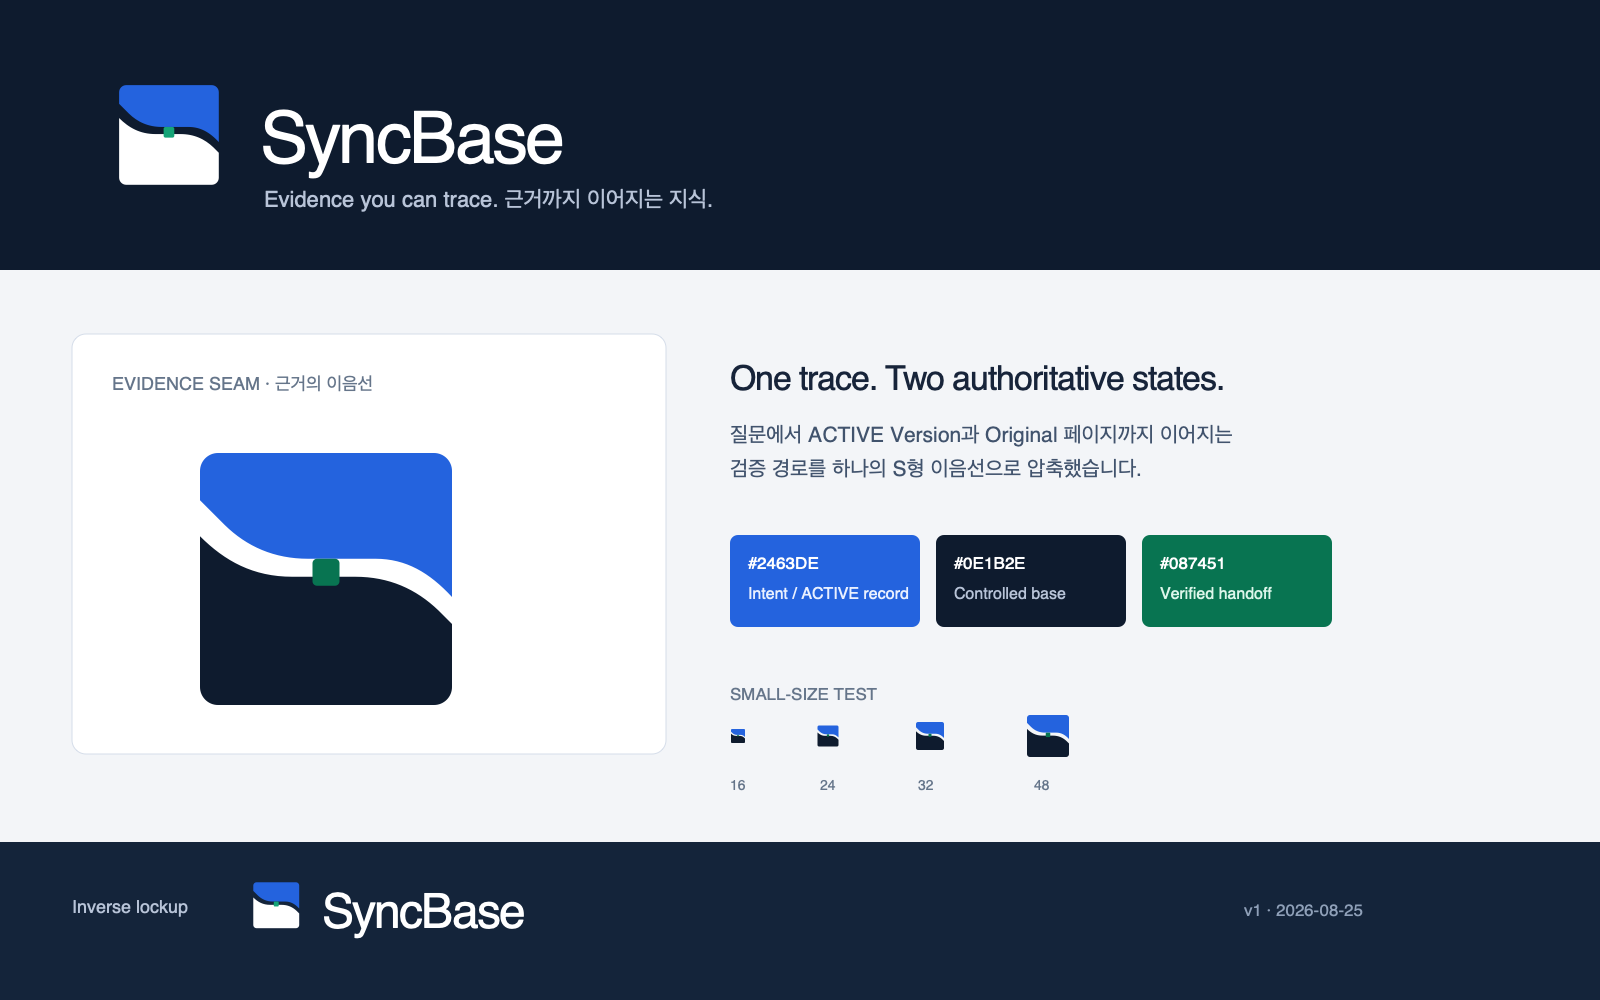
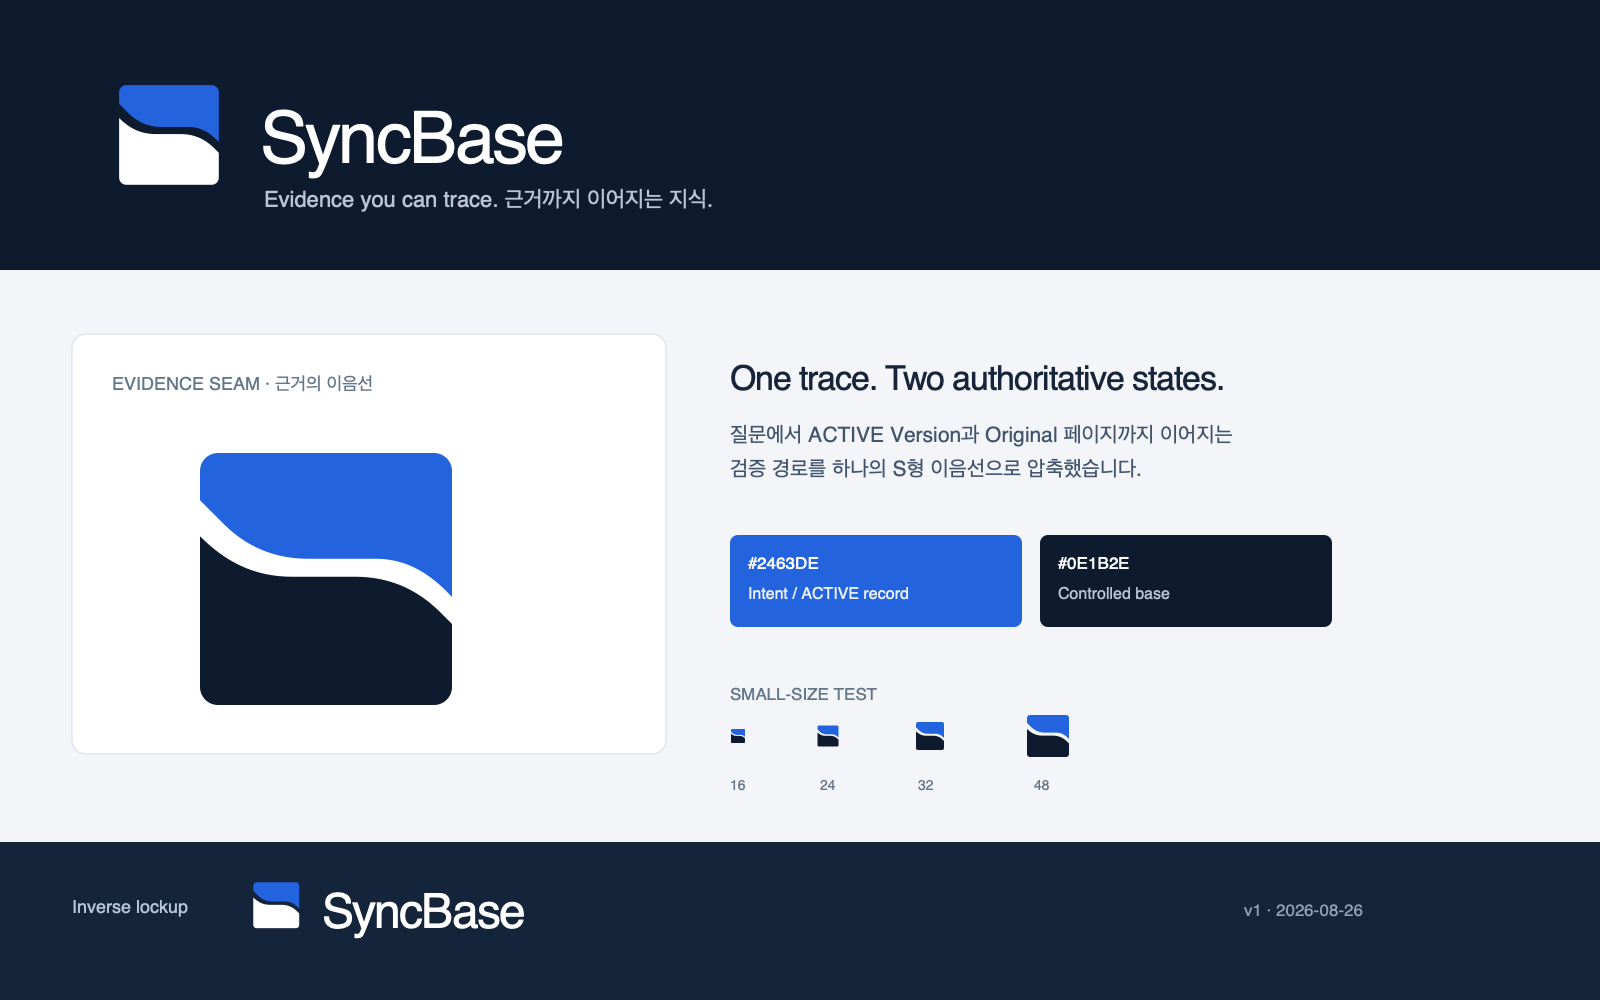
fix: align the brand system with the two-color mark

Changed region(s): [[0.5625, 0.527, 0.8438, 0.651], [0.1875, 0.558, 0.2188, 0.589]]

diff --git a/docs/brand/README.md b/docs/brand/README.md
@@ -2,12 +2,11 @@
 
 ## Concept: Evidence Seam · 근거의 이음선
 
-The mark compresses SyncBase's product promise into three pieces:
+The mark compresses SyncBase's product promise into two fields and the seam between them:
 
 - The cobalt upper field is the searchable, active record—the result the user is acting on.
 - The navy lower field is the controlled data base where document identity, metadata, and vectors stay aligned.
 - The open seam between them draws an abstract `S` and represents the trace from a result to its exact Document, Version, and Original page.
-- The green square is a verified handoff. It is deliberately a node, not a decorative accent: green retains the product design system's literal ACTIVE/proof meaning.
 
 The symbol is an evolution of the existing cobalt `S` tile. It avoids the category defaults—database cylinders, circular sync arrows, clouds, chains, shields, and AI sparkles—so the identity is tied to SyncBase's evidence mechanism rather than generic infrastructure.
 
@@ -22,6 +21,9 @@ The symbol is an evolution of the existing cobalt `S` tile. It avoids the catego
 | `public/brand/syncbase-logo-horizontal.svg` | Primary horizontal logo on light backgrounds |
 | `public/brand/syncbase-logo-horizontal-inverse.svg` | Horizontal logo on dark backgrounds |
 | `public/brand/syncbase-brand-sheet.svg` | Visual reference and presentation sheet |
+| `public/brand/syncbase-mark-{32,64,128,512}.png` | Raster mark exports at common delivery sizes |
+| `public/brand/syncbase-logo-horizontal-1600.png` | Large horizontal raster lockup |
+| `public/brand/syncbase-brand-sheet.png` | Shareable raster brand sheet |
 
 PNG exports are generated from these SVG sources for channels that do not accept vector files. The SVGs remain the source of truth.
 
@@ -31,19 +33,17 @@ PNG exports are generated from these SVG sources for channels that do not accept
 | --- | --- | --- |
 | Active record | `#2463DE` | Action Cobalt / `blue-600` |
 | Controlled base | `#0E1B2E` | Role Rail Navy / `navy-950` |
-| Verified handoff | `#087451` | Verified Green / `green-700` |
-| Dark-background node | `#15A477` | Optical lift for the 16–32px inverse mark |
 
-The green node must keep its proof meaning. Do not spread green to the wordmark or use it as ambient decoration.
+The logo deliberately stays two-color. Verified Green remains available for literal ACTIVE and successful product states, but it is not part of the brand mark.
 
 ## Usage rules
 
 - Keep clear space equal to at least one eighth of the mark's width on all sides.
-- Use the primary mark at 16px or larger. Prefer the monochrome mark where reproduction makes the green node unreliable.
+- Use the primary mark at 16px or larger. Prefer the monochrome mark when a process requires one-color reproduction.
 - Use the horizontal logo at 112px wide or larger. For smaller UI placements, pair the mark with live product text as the frontend does.
 - Use the inverse artwork on navy or similarly dark surfaces; the primary navy lower field will disappear into the role rail.
 - Preserve proportions and flat color. Do not add gradients, bevels, page folds, outlines, drop shadows inside the artwork, or an enclosing app-icon tile.
-- Do not rotate the symbol or animate the seam as a generic sync loop. If animated later, the only faithful motion is a single trace traveling from the active field through the verified node to the base.
+- Do not rotate the symbol or animate the seam as a generic sync loop. If animated later, the only faithful motion is a single trace traveling from the active field to the base.
 
 ## Wordmark note
 

diff --git a/DESIGN.md b/DESIGN.md
@@ -157,6 +157,16 @@ Hierarchy is structural. Flat bordered surfaces, neutral tonal shifts, and preci
 - Flat bordered surfaces with restrained 4–7px corners.
 - Desktop evidence adjacency and a linear search → results → source mobile flow.
 
+## Brand Identity
+
+**Logo concept: “Evidence Seam · 근거의 이음선”**
+
+The SyncBase mark is built from two authoritative record fields separated by a continuous S-shaped seam. The cobalt upper field represents the ACTIVE record a user can act on; the deep-navy lower field represents the controlled data base where document identity, metadata, and vectors stay aligned. The seam carries the traceability idea without an added status node, keeping the identity to two colors and one decisive gesture.
+
+Use `public/brand/syncbase-mark.svg` on light surfaces and `public/brand/syncbase-mark-inverse.svg` on the deep-navy role rail and login perimeter. Use the monochrome variants when a process requires one-color reproduction. The mark must remain flat and front-on: no database cylinders, circular sync arrows, gradients, folds, bevels, enclosing app-icon tiles, status dots, or decorative motion loops. At least one eighth of the mark width remains clear on every side. The primary mark starts at 16px; the horizontal lockup starts at 112px.
+
+The full rationale, asset inventory, print note, and generation provenance live in `docs/brand/README.md`.
+
 ## Colors
 
 The palette is a cool institutional ledger: near-black navy provides authority, cobalt marks intent, status colors carry literal operational meaning, and blue-gray neutrals keep evidence readable without visual noise.

diff --git a/docs/brand/logo-generation-prompts.md b/docs/brand/logo-generation-prompts.md
@@ -32,4 +32,4 @@ Change only the rendering and simplification described; keep the two-field-plus-
 Avoid: extra marks, text, labels, page-corner folds, paper icons, gradients, shadows, highlights, bevels, outlines, 3D, perspective, arrowheads, arrows, infinity loops, chain links, database cylinders, clouds, shields, checks, sparkles, circuits, hexagons, watermark.
 ```
 
-Disposition: accepted only as a structure reference. The study clarified the negative-space `S` and the proof node but still introduced gradients. The shipping vectors remove all generated rendering and rebuild the geometry from paths with exact palette values.
+Disposition: accepted only as a structure reference. The study clarified the negative-space `S` but still introduced gradients and an unnecessary proof node. The shipping vectors remove both, rebuilding the identity as exact two-color paths.
